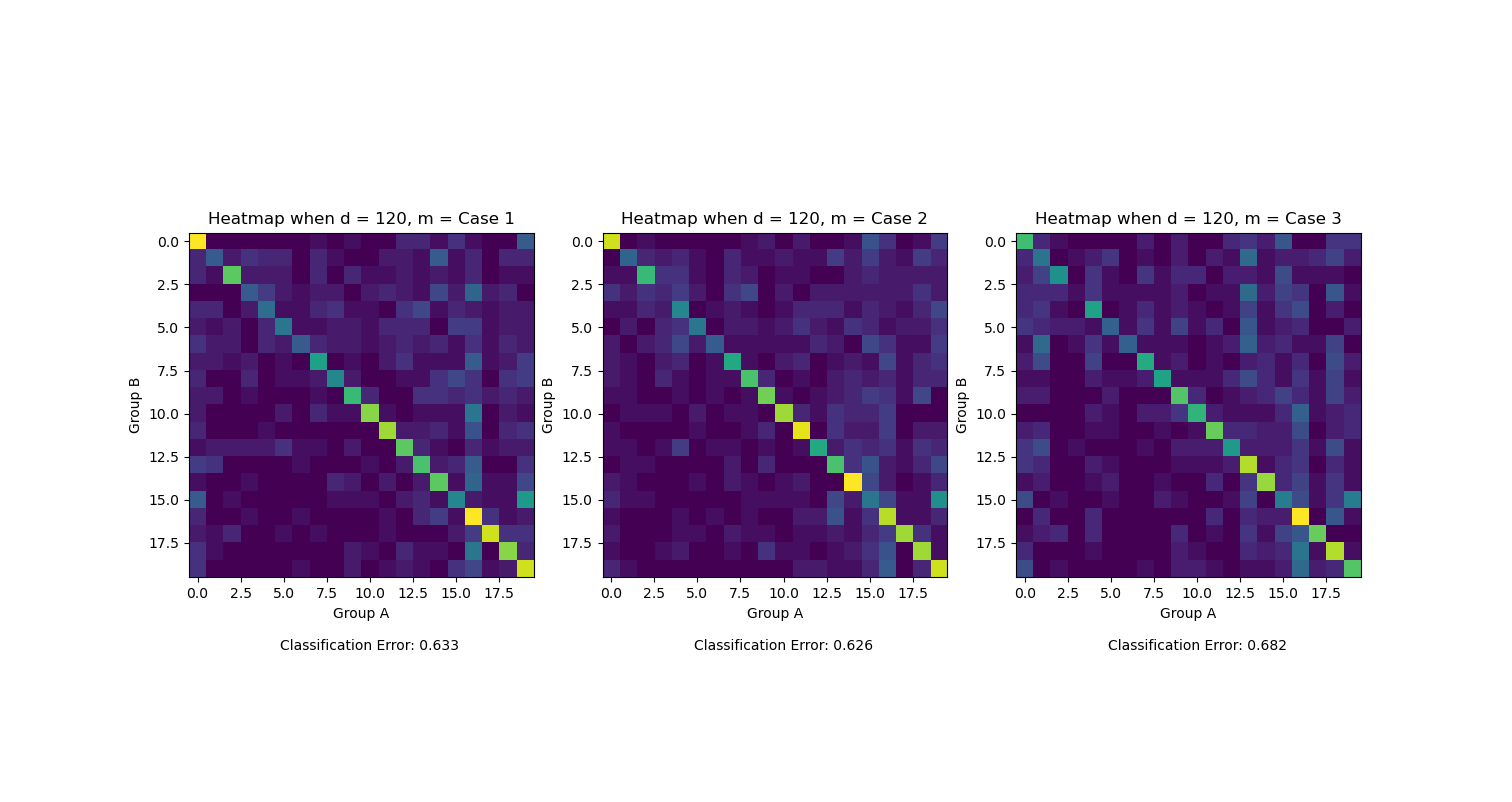
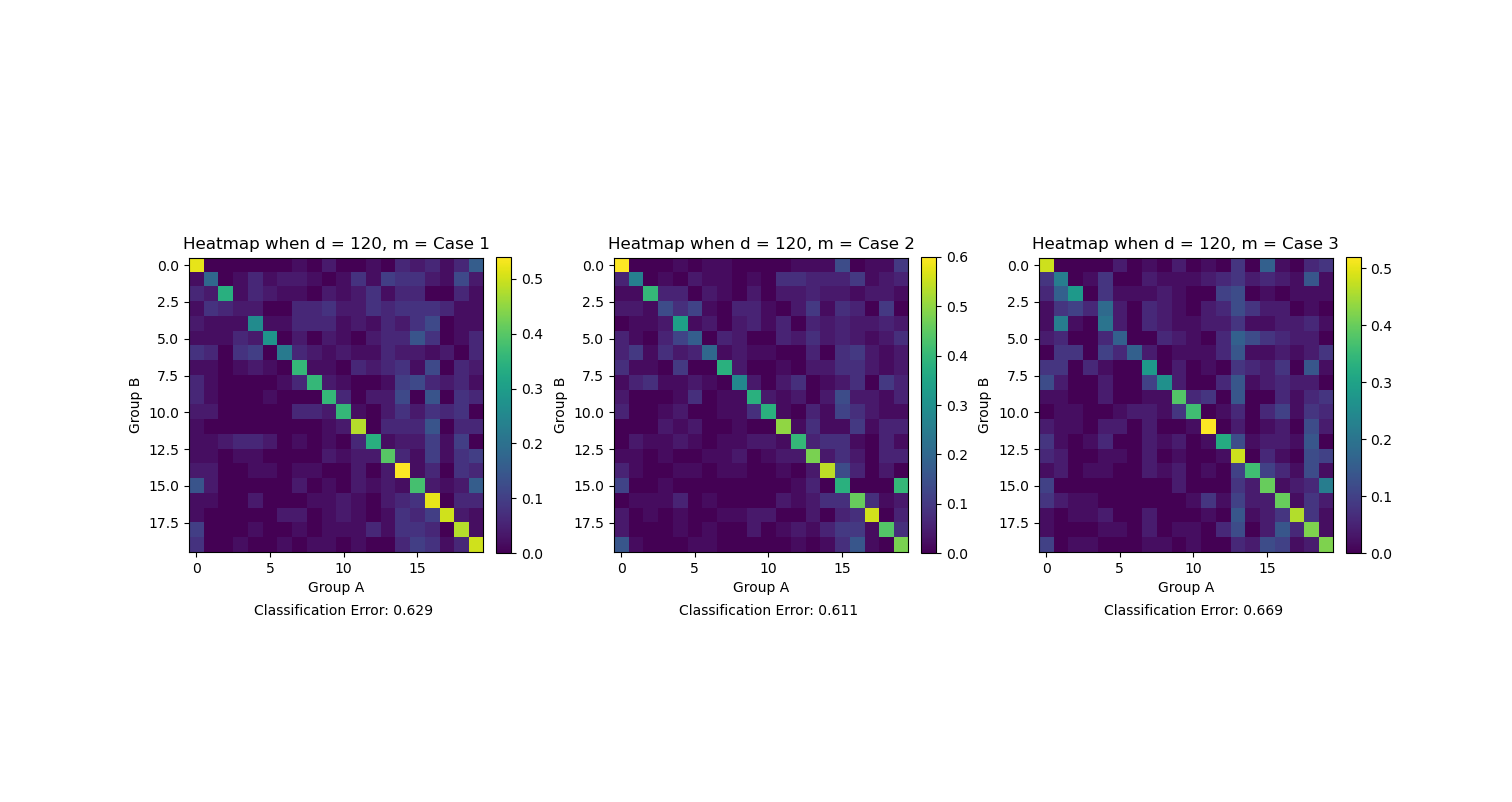
changed images

Changed region(s): [[0.0933, 0.2494, 0.9015, 0.8105], [0.4663, 0.5923, 0.4974, 0.6234]]

diff --git a/hw2/hw2_2.py b/hw2/hw2_2.py
@@ -126,36 +126,39 @@ def plot_three(data1, data2, data3, d):
     arr_1, err1 = nearest_neighbor_heatmap(data1)
     arr_2, err2 = nearest_neighbor_heatmap(data2)
     arr_3, err3 = nearest_neighbor_heatmap(data3)
-    axs[0].imshow(arr_1, cmap='viridis')
+    im = axs[0].imshow(arr_1, cmap='viridis')
     axs[0].set_title(f"Heatmap when d = {d}, m = Case 1")
     axs[0].set_xlabel("Group A")
     axs[0].set_ylabel("Group B")
     axs[0].text(10, 23.5, f'Classification Error: {err1}', fontsize=10, ha='center', va='center')
-    axs[1].imshow(arr_2, cmap='viridis')
+    plt.colorbar(im, ax=axs[0], fraction=0.046, pad=0.04)
+    im2 = axs[1].imshow(arr_2, cmap='viridis')
     axs[1].set_title(f"Heatmap when d = {d}, m = Case 2")
     axs[1].set_xlabel("Group A")
     axs[1].set_ylabel("Group B")
     axs[1].text(10, 23.5, f'Classification Error: {err2}', fontsize=10, ha='center', va='center')
-    axs[2].imshow(arr_3, cmap='viridis')
+    plt.colorbar(im2, ax=axs[1], fraction=0.046, pad=0.04)
+    im3 = axs[2].imshow(arr_3, cmap='viridis')
     axs[2].set_title(f"Heatmap when d = {d}, m = Case 3")
     axs[2].set_xlabel("Group A")
     axs[2].set_ylabel("Group B")
     axs[2].text(10, 23.5, f'Classification Error: {err3}', fontsize=10, ha='center', va='center')
+    plt.colorbar(im3, ax=axs[2], fraction=0.046, pad=0.04)
     plt.show()
     
 
 
 if __name__ == '__main__':
-    plot_heatmap(full_data) 
+    # plot_heatmap(full_data) 
 
-    # dims = [10, 30, 60, 120]
-    # for d in dims:
-    #     m_1 = m1(d, 75000) 
-    #     m_2 = m2(d, 75000)  
-    #     m_3 = m3(d, 75000)
-    #     data_copy_1 = reduce_dimension(full_data, m_1)
-    #     data_copy_2 = reduce_dimension(full_data, m_2)
-    #     data_copy_3 = reduce_dimension(full_data, m_3)
-    #     plot_three(data_copy_1, data_copy_2, data_copy_3, d)
-    #print(full_data)
+    dims = [10, 30, 60, 120]
+    for d in dims:
+        m_1 = m1(d, 75000) 
+        m_2 = m2(d, 75000)  
+        m_3 = m3(d, 75000)
+        data_copy_1 = reduce_dimension(full_data, m_1)
+        data_copy_2 = reduce_dimension(full_data, m_2)
+        data_copy_3 = reduce_dimension(full_data, m_3)
+        plot_three(data_copy_1, data_copy_2, data_copy_3, d)
+    print(full_data)
     # print(data)
